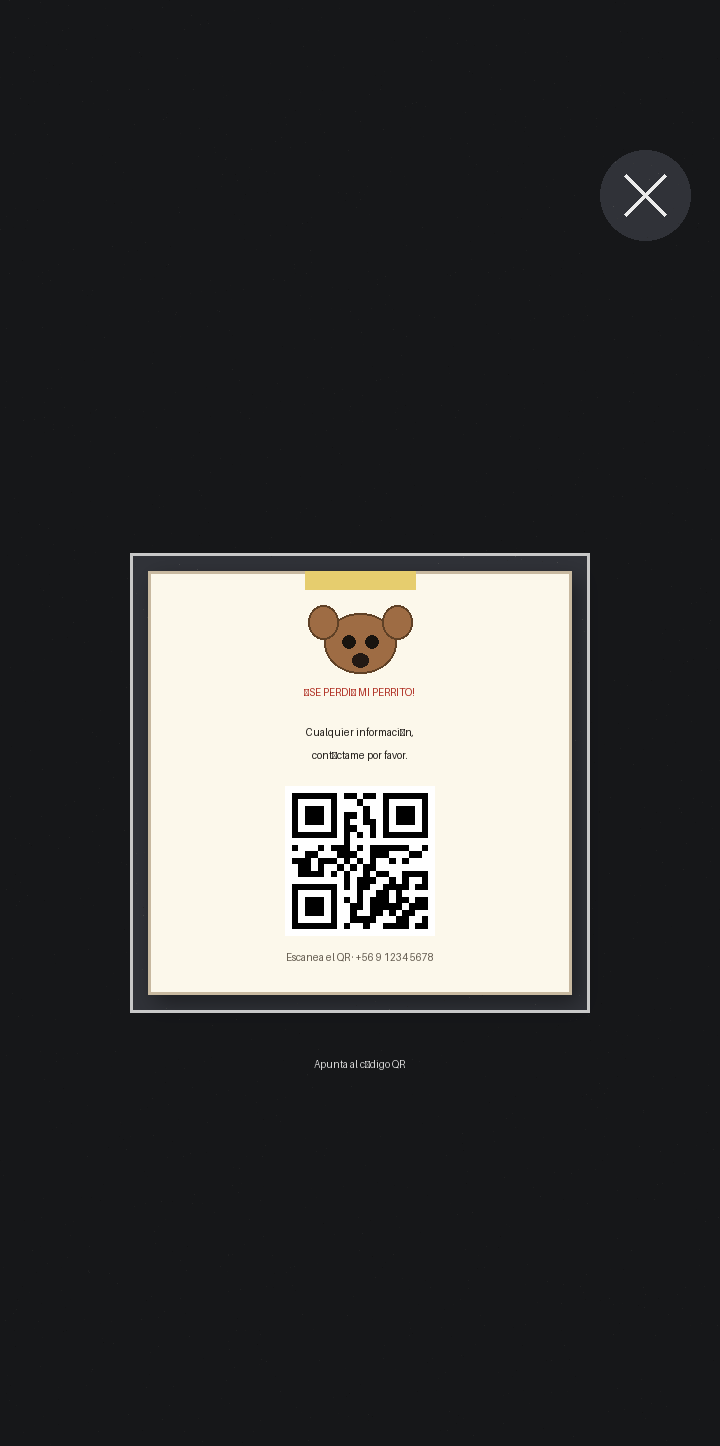
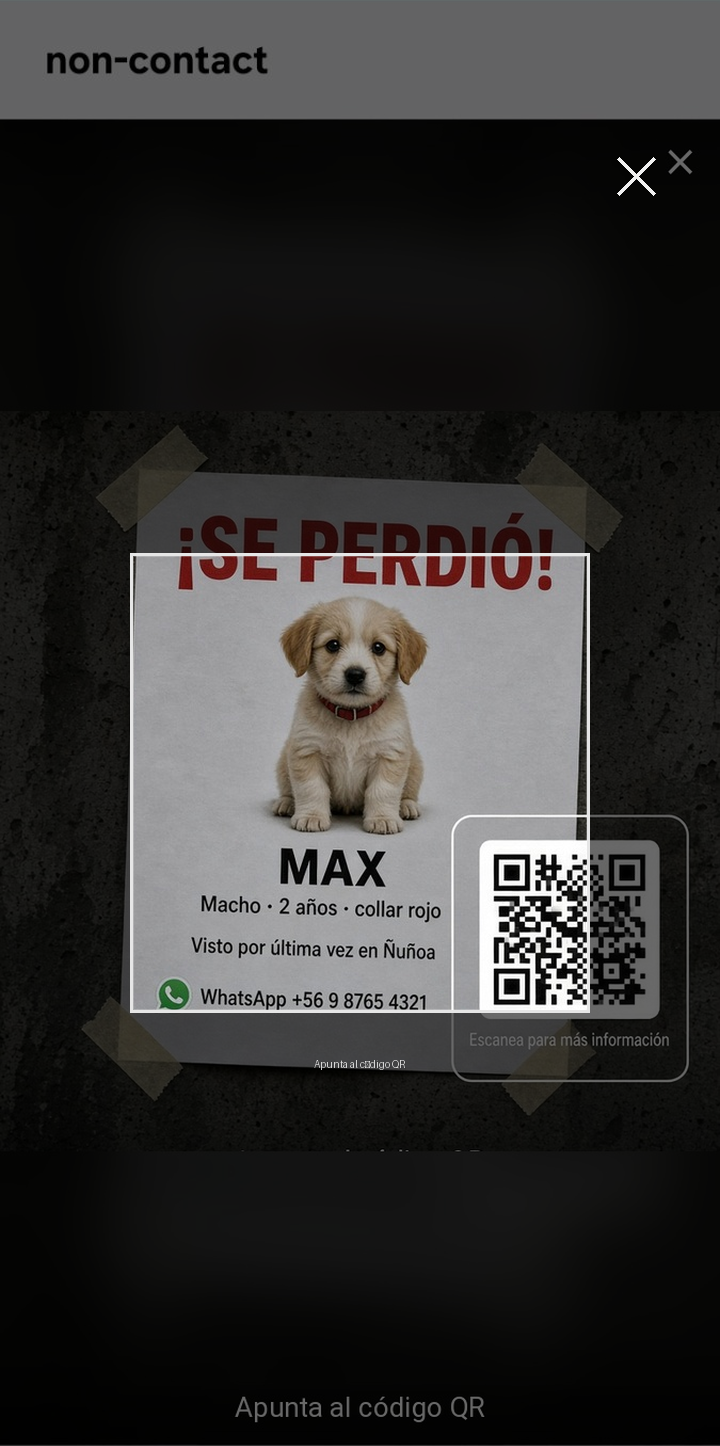
Replace scanner preview art with the user-generated lost-dog flyer
Compose 11dz7.jpg behind the scanner chrome (viewport, close, guide text).

diff --git a/assets/screenshots/README.md b/assets/screenshots/README.md
@@ -10,4 +10,4 @@ Barra de estado y barra de navegación del sistema recortadas.
 | `light/history.png` / `dark/history.png` | Historial (vacío en este dispositivo) |
 | `light/scanner.png` / `dark/scanner.png` | Escáner QR nativo |
 
-**Nota escáner:** `adb screencap` no captura el preview de cámara (`PreviewView` / SurfaceView). La UI del escáner (marco, X, “Apunta al código QR”) es real; el área del preview es una composición ilustrativa: cartel “Se perdió mi perrito” con QR de ejemplo (`+56912345678`). Light/dark comparten la misma imagen (Activity nativa, sin tema Lynx).
+**Nota escáner:** `adb screencap` no captura el preview de cámara (`PreviewView` / SurfaceView). Se compone un cartel generado (`11dz7.jpg`) detrás del marco del escáner (X + “Apunta al código QR”). Light/dark comparten la misma imagen (Activity nativa, sin tema Lynx).
